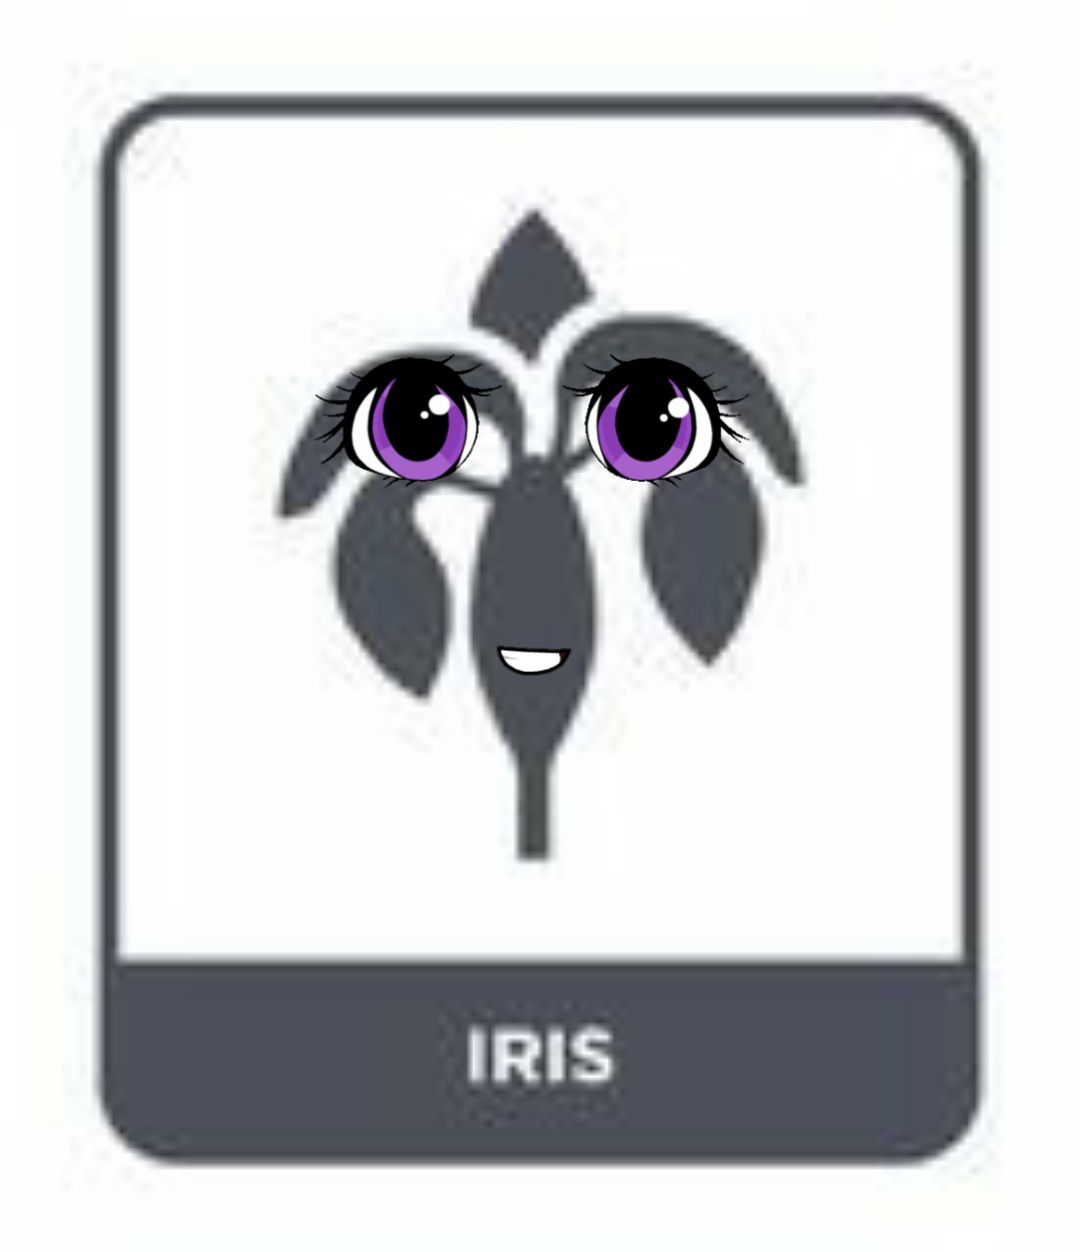
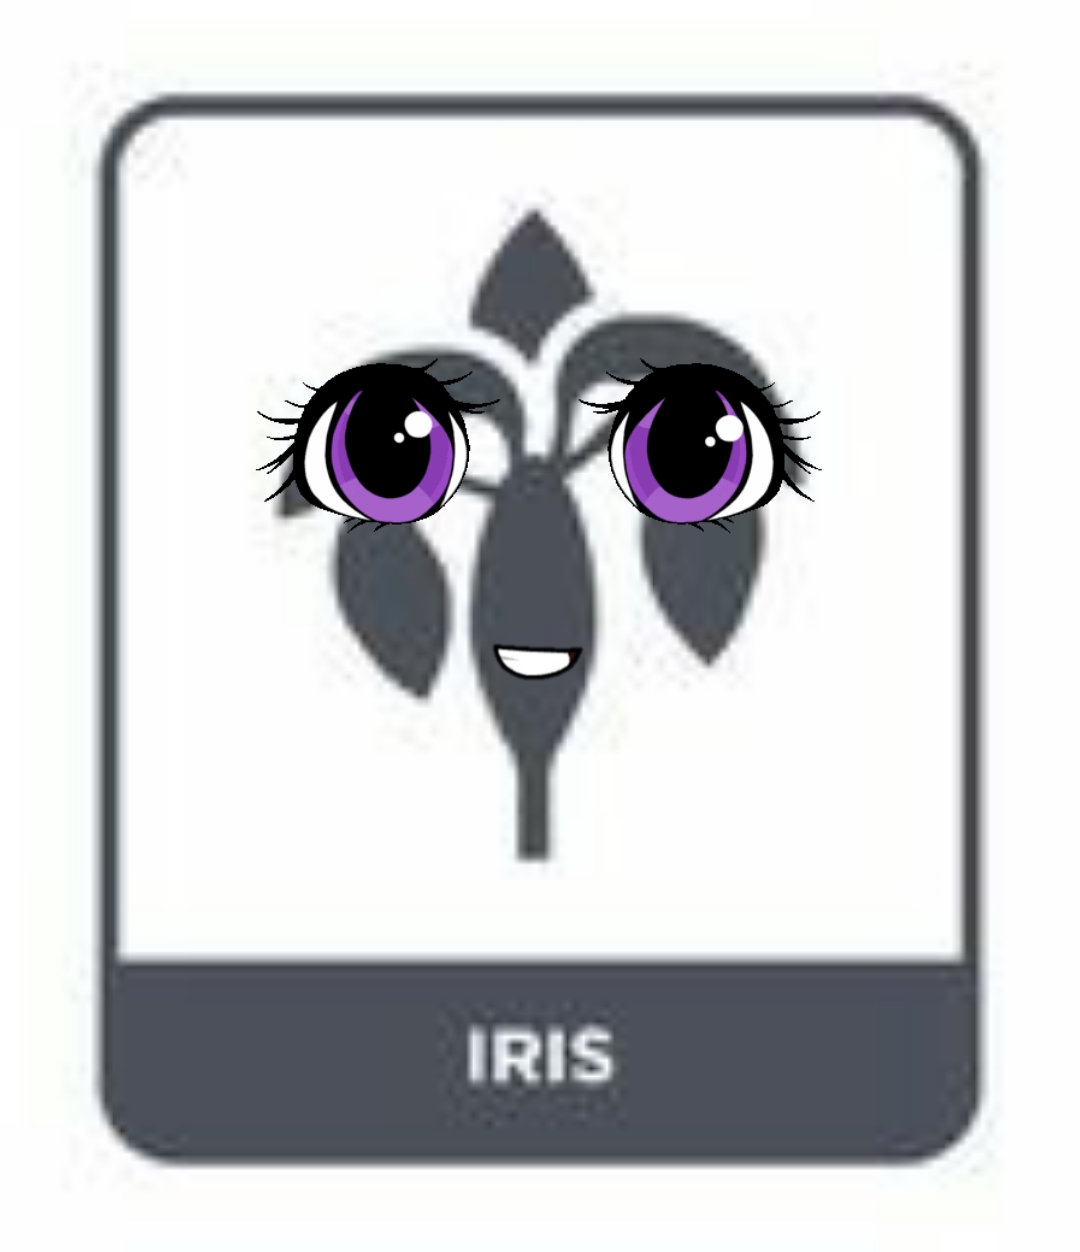
Laugh/Cry(DE)/Timeout iIris

Changed region(s): [[0.5194, 0.2804, 0.7639, 0.4361], [0.2444, 0.2804, 0.4583, 0.4361], [0.4583, 0.4984, 0.55, 0.5607]]

diff --git a/IrisTalk/IrisTalk.js b/IrisTalk/IrisTalk.js
@@ -1,10 +1,40 @@
 alert("Hello, I am your pet Iris");
-console.log(document.getElementById("iris_image").naturalWidth);
-console.log(document.getElementById("iris_image").naturalHeight);
+var clientWindowHeight = document.body.clientHeight;
+
+
+//Resize the pet
+function resizeIris(){
+    //GET THE HEIGHT OF WINDOW
+    
+    let irisHeight = (clientWindowHeight - 100) * 0.6;
+    
+    //改变外链CSS的方法1：改变相应id的类且css是类选择器的
+    // document.getElementById("iris_image").className = "style2";
+
+    //方法2：直接创建一个新的css外链，通过id改变src
+    document.getElementById('css1').href="./irisTalk2.css";  
+   
+    document.getElementById("iris_image").height = irisHeight; 
+    // console.log(document.getElementById("iris_image").height); // Check it 
+
+}
+
+// console.log();
 function touchIris(){
-    var username=prompt("Tell me your name", "Enter it");
+    let username=prompt("Tell me your name", "Enter it");
+    // let irisOriginal = document.getElementById("iris_image").height;
+    //BUG:this let cannot be read in setTimeout
+    // console.log(irisOriginal);
+    // let irisBiggerHeight = (clientWindowHeight - 100) * 0.9;
+
+    
     if(username){
+      
         alert('Nice to meet you, ' + username + '.');
         document.getElementById("iris_image").src = "./iris_smile.jpg";
+        // document.getElementById("iris_image").height = irisBiggerHeight;
+        setTimeout("document.getElementById('iris_image').src= './iris_icon.jpg'",1000);
+        //document.getElementById('iris_image').height =irisOriginal;//doesn't work
+        // setTimeout("document.getElementById('iris_image').height = this.irisOriginal",1000);
     }
 }

diff --git a/IrisTalk/IrisTalk.html b/IrisTalk/IrisTalk.html
@@ -1,12 +1,12 @@
 <html>
 <head>
-    <link rel="stylesheet" href='./IrisTalk.css'>
+    <link rel="stylesheet" href='./IrisTalk.css' id='css1'>
 </head>
 
-<body>
+<body onload="resizeIris()" onresize="resizeIris()" >
     <div>
-        <img id="iris_image" src="./iris_icon.jpg" alt="iIris" 
-        onclick="touchIris()"/>
+        <img id="iris_image" src="./iris_icon.jpg" class="style1" alt="iIris" 
+        onclick="touchIris()" />
     </div>
     <script src="./IrisTalk.js"></script>
 </body>

diff --git a/IrisTalk/IrisTalk.css b/IrisTalk/IrisTalk.css
@@ -1,9 +1,9 @@
 div{
     margin-top:100px;
     text-align: center;
+    background: rgb(40, 42, 66);
 }
 
-img{
-    height:160px;
-    width:138px;
+img.style1{
+    height:400px;
 }

diff --git a/IrisTalk/irisTalk2.css b/IrisTalk/irisTalk2.css
@@ -1,0 +1,5 @@
+div{
+    margin-top:100px;
+    text-align: center;
+    background: rgb(228, 230, 255);
+}
